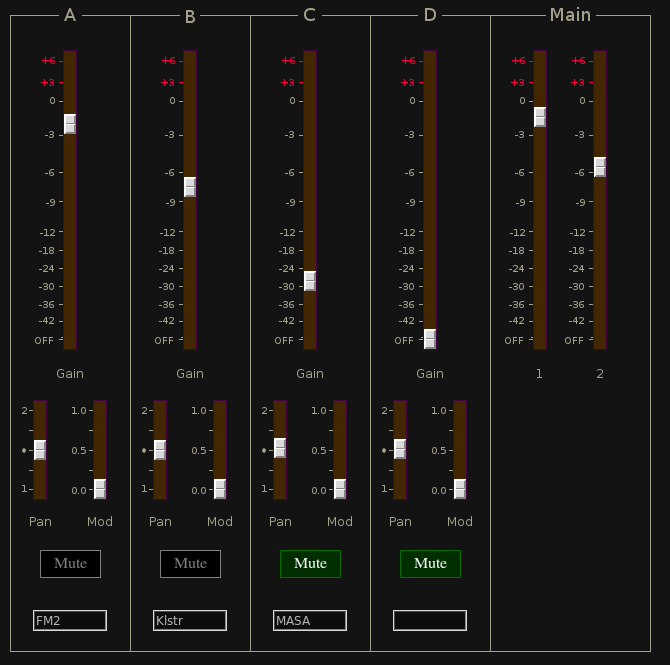
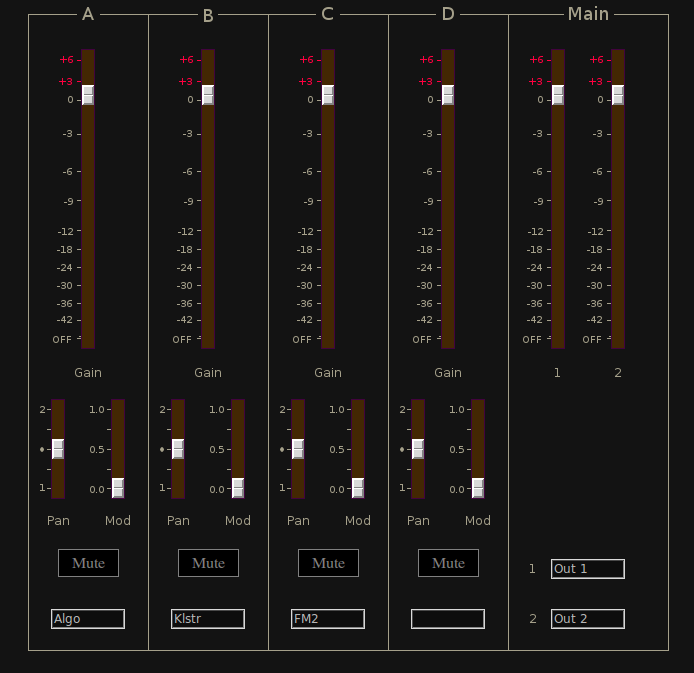
Includes Mixer documentation and editor graphics updates.

diff --git a/doc/mixer.html b/doc/mixer.html
@@ -39,9 +39,16 @@
                <li>Pan - </li>
                <li>Mod - Modulation depth from external control.</li>
                <li>Mute - Channel enable button</li>
-               <li>(unlabeled box) - text field for entering channel name *</li>
+               <li>Labels - The widgets at the bottom of each channel and Main fader area 
+                            are for channel labels.<br> 
+            
+            The user may enter text here as a reminder
+            of the channels use.<br>
+            The text is saved by the 
+            <a href="compose.html">compose</a> and <a href="zip.html">zip</a> features.</li>
+                            
             </ul>
-            * The channel name text is not saved.
+            
             
             <hr class="section-head" />
             
